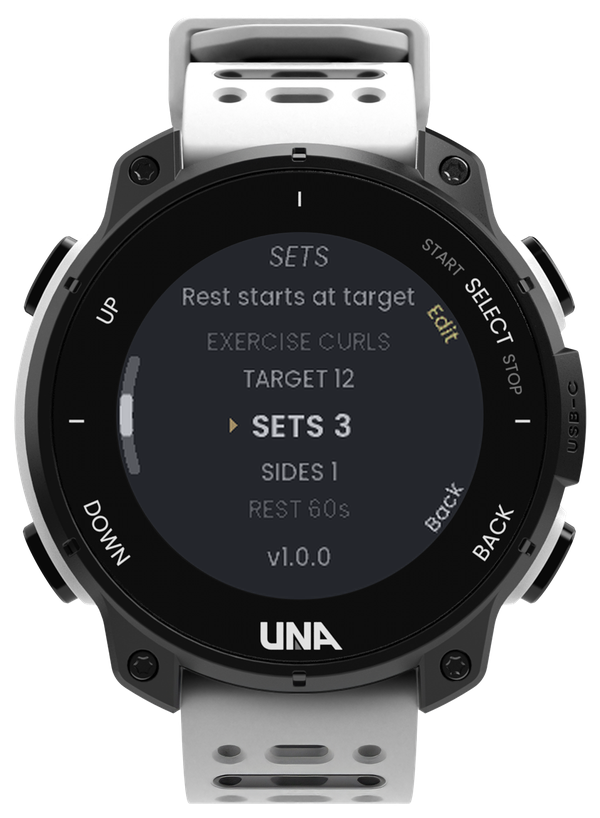
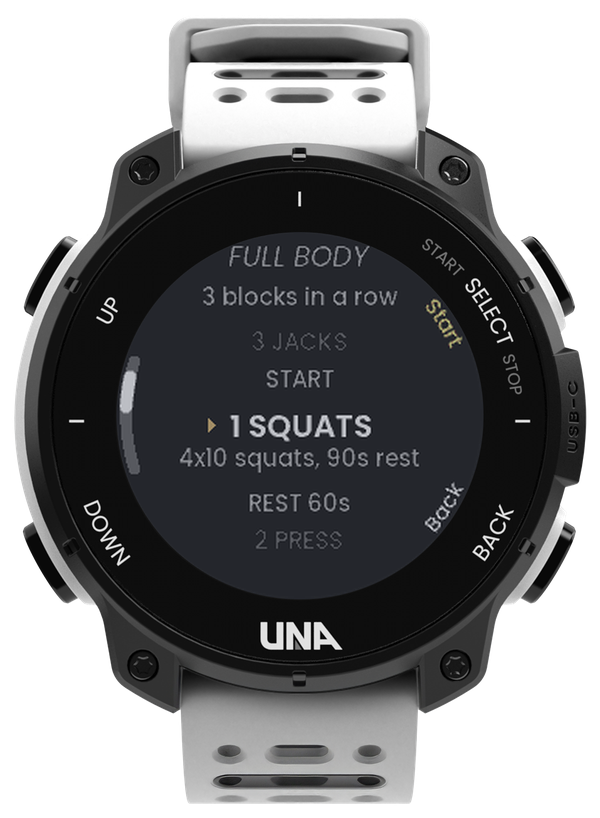
AutoRep: 1.2 on the page (saved workouts, two new screens)
Saved workouts with chained exercises move from "Coming next" to "What it
does", and the first two screens show the saved-workout list and a
workout's plan.

Changed region(s): [[0.3, 0.3056, 0.78, 0.7029], [0.18, 0.4584, 0.24, 0.5501]]

diff --git a/AutoRep/README.md b/AutoRep/README.md
@@ -54,6 +54,11 @@ shows reps per round, your heart rate and your pace, so you can see where you sl
   that long before each rest ends, then 3-2-1.
 - **Miscounted?** L1 and L2 add or remove a rep with one press, even during rest.
 - **Remembers your last workout:** open AutoRep and press R1 twice to start it again.
+- **Saved workouts, built on your phone (1.2):** set them up on the
+  [**workout builder**](https://rounoff.github.io/una-apps/AutoRep/builder/), copy each one into
+  AutoRep's settings in the UNA app, and start them from the top of the watch's list. A workout can
+  chain up to 10 exercises with rests between them (for example squats, rest 60 s, presses, then a
+  Tabata of jumping jacks): they run one after the other, as one activity, with a summary per block.
 - **Saved to the UNA phone app:** each workout is an activity with one lap per round (per side with
   Sides 2), heart rate,
   calories, total reps, reps per lap, and graphs of reps and reps per minute over time.
@@ -61,10 +66,10 @@ shows reps per round, your heart rate and your pace, so you can see where you sl
 
 ## Screens
 
-| Choose a format | Set it up | Finding your rhythm |
+| Your workouts first | A saved workout | Finding your rhythm |
 |:---:|:---:|:---:|
 | <img src="images/1_mode.png" width="220"> | <img src="images/2_setup.png" width="220"> | <img src="images/4_finding_rhythm.png" width="220"> |
-| Sets, EMOM, AMRAP or Tabata | Target, sets, sides, rest | First three reps set the baseline |
+| Built on your phone, then the formats | Its blocks, run one after the other | First three reps set the baseline |
 
 | A set | Target hit | Summary |
 |:---:|:---:|:---:|
@@ -101,13 +106,8 @@ the buzzes and the phone-app activity work. The other exercises are tuned on the
 
 ## Coming next
 
-- **Saved workouts (1.1):** build up to five workouts on your phone with the
-  [**workout builder**](https://rounoff.github.io/una-apps/AutoRep/builder/), copy each one into
-  AutoRep's settings in the UNA app, and start them from the top of the watch's mode list.
-- **Workout plans, set from the watch:** chain several blocks into one workout (for example EMOM
-  5 min of squats, rest 60 s, Tabata jumping jacks, rest 60 s, AMRAP 5 min of curls), each with its
-  own format, exercise, target and rest. Built on the watch with the same lists, run as one
-  activity, with a summary per block.
+- **Workout plans built on the watch:** the same chained blocks as the workout builder's, set up
+  with the watch's own lists, no phone needed.
 
 ## Feedback
 
